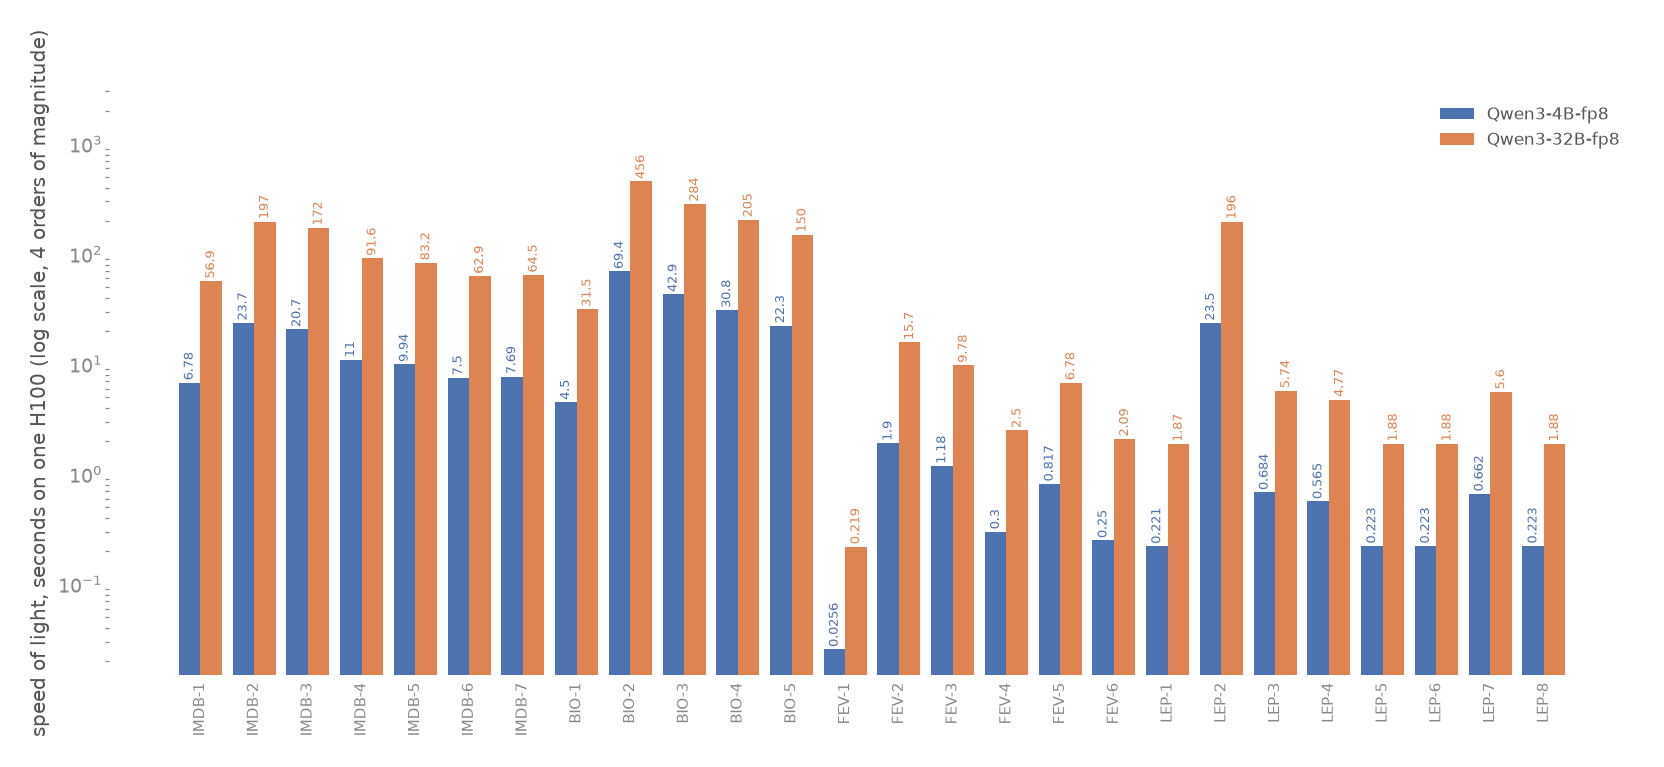
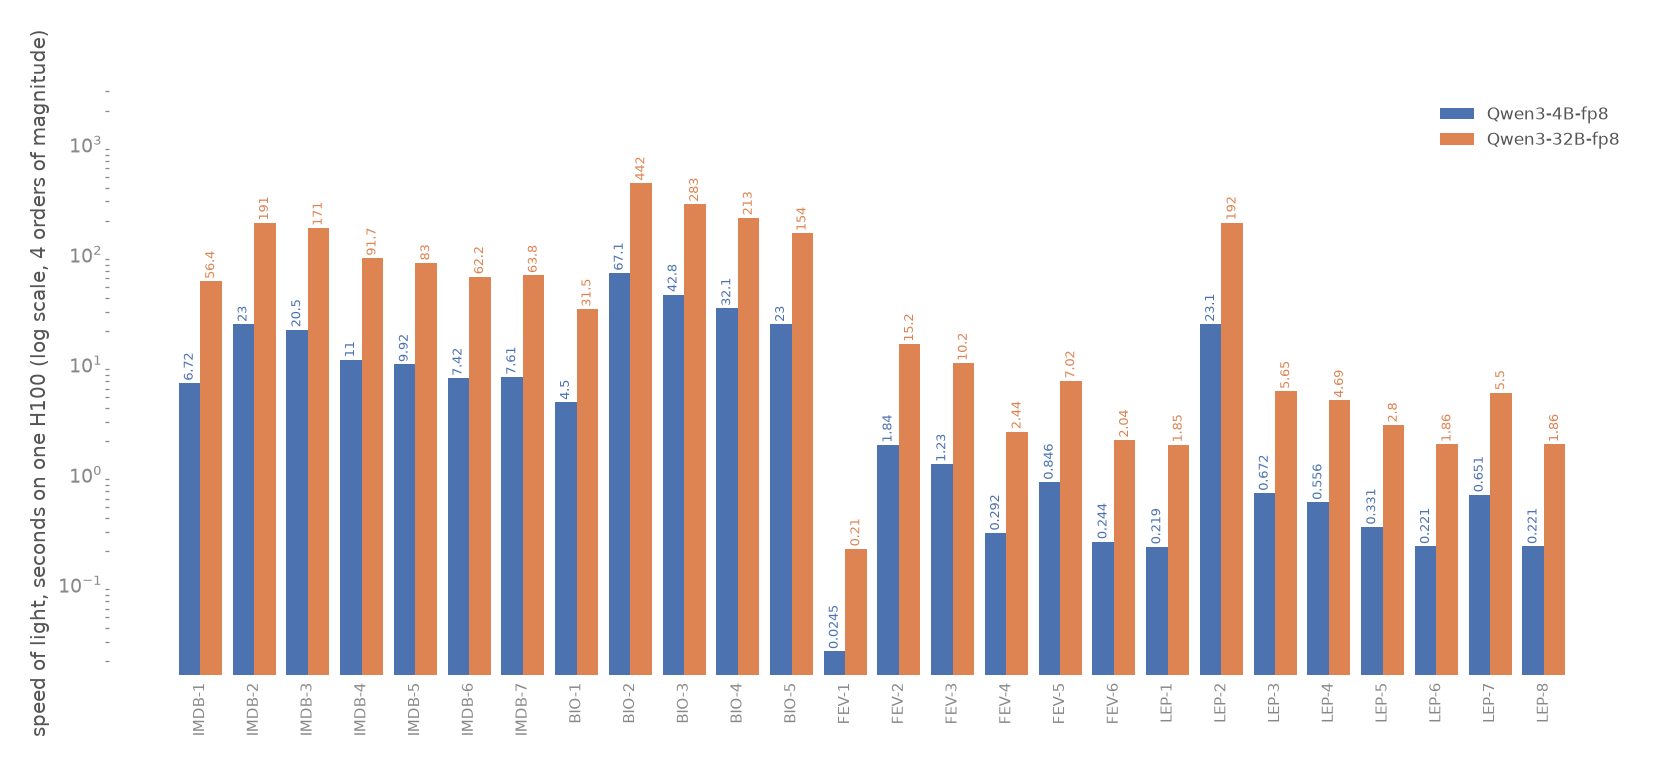
Recompute the QUAIL-B speed of light against the relabelled ground truth
The equations are unchanged. Two of their three measured inputs moved:
the templates lost a duplicated ANSWER= cue, so every filter question is
a few tokens shorter, and relabelling under the corrected templates
raised 14 of the 19 predicates' selectivities.

The label loader now reads the corpus's active_collection.json and takes
only the label sets that collection names. A predicate keeps one label
set per template it has been judged under and superseded ones stay on
the volume, so the old glob over every label set could have read either.

Net effect on the bound is small: 22 of 26 queries move by under 4%.
Shorter prompts cut tokens while higher selectivities send more
documents into later stages, and the two largely cancel. LEP-5 is the
exception at 1.5x, because its filter chain now leaves one document
standing where it left none, so its join costs something.

Results on the quail-results volume at /sol/sol_quailb_sf0.1.json.

diff --git a/reports/make_sol_quailb.py b/reports/make_sol_quailb.py
@@ -38,16 +38,22 @@ The corpora and the per-document ground-truth labels are raw data
 and live on the quail-results volume, so pull them first. The
 answers go back to the volume too:
 
-    W=<workdir>
+    W=<workdir>; C=c_df45ef585738f42e4a7a731306f1b9fc
+    G=/ground_truth/quailb/schema_v1
+    mkdir -p $W/data $W/allabels
     modal volume get quail-results /quailb_data/sf0.1 $W/data/
-    modal volume get quail-results \
-        /ground_truth/quailb/schema_v1/label_sets $W/allabels/
+    modal volume get quail-results $G/label_sets $W/allabels/
+    modal volume get quail-results $G/corpora/$C/active_collection.json \
+        $W/active_collection.json
+    GT=$(grep -o 'gt_[0-9a-f]*' $W/active_collection.json)
+    modal volume get quail-results $G/collections/$GT/manifest.json \
+        $W/collection_manifest.json
     uv run --with transformers --with pyarrow \
         python reports/make_sol_quailb.py $W
     modal volume put quail-results $W/sol_quailb_sf0.1.json \
         /sol/sol_quailb_sf0.1.json
 
-The report is reports/2026-08-25-sol-quailb.md.
+The report is reports/2026-08-26-sol-quailb.md.
 """
 import collections
 import glob
@@ -407,8 +413,17 @@ join_prompt = {c: {"question": length(render_join_question(t)),
                for c, t in JOIN_TEMPLATES.items()}
 
 # 3. labels -----------------------------------------------------------
+# A predicate keeps one label set per template it has been judged
+# under, so the volume holds several at once. The corpus's
+# active_collection.json names the current collection, and that
+# collection names one label set per predicate; anything else is a
+# superseded run and must not be read.
+ACTIVE = set(json.load(open(W / "collection_manifest.json"))
+             ["label_sets"].values())
 labels = {}
 for m in glob.glob(str(W / "allabels/label_sets/*/*/*/manifest.json")):
+    if Path(m).parent.name not in ACTIVE:
+        continue
     meta = json.load(open(m))["predicate"]
     if meta["kind"] != "filter":
         continue

diff --git a/reports/2026-08-26-sol-quailb.md b/reports/2026-08-26-sol-quailb.md
@@ -40,13 +40,20 @@ one pass, and writes both to `/sol/sol_quailb_sf0.1.json` on the
    the set its join runs against.
 
 2. **Prompt lengths.** The shared preamble is 2 tokens. Each
-   filter's question is 40 to 62 tokens. Each join carries a partner
+   filter's question is 41 to 62 tokens. Each join carries a partner
    block label, an anchor naming line, and a question.
 
 3. **Selectivities.** From the QUAIL-B ground truth labels - the 32B
    model's TRUE/FALSE per document - taken per stage and conditional
-   on the stages before it. F1 passes 0.7746 of IMDB's documents; F4 then
-   passes 0.2486 of what F1 left.
+   on the stages before it. F1 passes 0.8008 of IMDB's documents; F4 then
+   passes 0.2567 of what F1 left.
+
+   These come from collection `gt_80e7582534b349bc61c087595f2e0a51`,
+   the labels active for corpus `c_df45ef585738f42e4a7a731306f1b9fc`.
+   A predicate keeps one label set per template it has been judged
+   under, and superseded ones stay on the volume, so the script reads
+   the corpus's `active_collection.json` and takes only the label
+   sets that collection names.
 
 One thing is set rather than measured: the batch size the forward
 pass runs at, which decides how many times the weights are re-read.
@@ -87,9 +94,9 @@ new tokens attending over the resident prefix - never as a triangle
 over itself. Without reuse, stage `s > 1` would be another stage 1.
 
 Read straight off the table below: IMDB-1 is one filter over 5,000
-IMDB documents at 1,774,233 tokens. IMDB-6 adds a second filter and
-comes to 1,960,137. The difference is 185,904, which is exactly the
-3,873 surviving documents times F4's 48-token question. Nothing is
+IMDB documents at 1,759,233 tokens. IMDB-6 adds a second filter and
+comes to 1,939,413. The difference is 180,180, which is exactly the
+4,004 surviving documents times F4's 45-token question. Nothing is
 scanned again.
 
 A join is the same shape with a longer suffix. One side anchors -
@@ -108,35 +115,35 @@ Figure: plots/sol_quailb_per_query.png
 
 | query | shape | tokens | pairs | tuples | anchor | 4B SoL | 32B SoL | 32B/4B |
 |---|---|---|---|---|---|---|---|---|
-| IMDB-1 | 1F | 1,774,233 | 4.45e8 | - | - | 6.78 s | 56.90 s | 8.39 |
-| IMDB-2 | 1J | 6,124,233 | 1.96e9 | 60,000 | documents | 23.66 s | 197.31 s | 8.34 |
-| IMDB-3 | 1F+1J | 5,352,885 | 1.69e9 | 46,476 | documents | 20.66 s | 172.40 s | 8.34 |
-| IMDB-4 | 2F+1J | 2,849,949 | 8.14e8 | 11,556 | documents | 10.95 s | 91.61 s | 8.37 |
-| IMDB-5 | 3F+1J | 2,590,485 | 7.22e8 | 7,536 | documents | 9.94 s | 83.23 s | 8.37 |
-| IMDB-6 | 2F | 1,960,137 | 5.05e8 | - | - | 7.50 s | 62.89 s | 8.39 |
-| IMDB-7 | 3F | 2,010,213 | 5.21e8 | - | - | 7.69 s | 64.50 s | 8.39 |
-| BIO-1 | 1F | 839,599 | 2.38e9 | - | - | 4.50 s | 31.53 s | 7.00 |
-| BIO-2 | 1J | 11,347,799 | 4.65e10 | 122,800 | documents | 69.40 s | 456.48 s | 6.58 |
-| BIO-3 | 1F+1J | 7,097,928 | 2.83e10 | 73,066 | documents | 42.93 s | 283.82 s | 6.61 |
-| BIO-4 | 2F+1J | 5,157,297 | 1.99e10 | 50,348 | documents | 30.81 s | 204.84 s | 6.65 |
-| BIO-5 | 3F+1J | 3,794,195 | 1.41e10 | 34,384 | documents | 22.33 s | 149.50 s | 6.70 |
-| FEV-1 | 1F | 6,942 | 2.45e5 | - | - | 0.026 s | 0.22 s | 8.56 |
-| FEV-2 | 1J | 485,820 | 2.02e8 | 5,700 | partner | 1.90 s | 15.75 s | 8.27 |
-| FEV-3 | 1F+1J | 301,926 | 1.22e8 | 3,363 | partner | 1.18 s | 9.78 s | 8.28 |
-| FEV-4 | 2F+1J | 77,499 | 2.57e7 | 570 | partner | 0.30 s | 2.50 s | 8.33 |
-| FEV-5 | 2F+1J two-sided | 209,571 | 7.94e7 | 2,183 | partner | 0.82 s | 6.78 s | 8.30 |
-| FEV-6 | 3F+1J two-sided | 64,884 | 1.98e7 | 370 | partner | 0.25 s | 2.09 s | 8.35 |
-| LEP-1 | 1F | 58,419 | 1.16e7 | - | - | 0.22 s | 1.87 s | 8.43 |
-| LEP-2 | 1J | 6,086,619 | 1.97e9 | 40,000 | documents | 23.53 s | 196.13 s | 8.34 |
-| LEP-3 | 1F+1J | 179,211 | 4.29e7 | 800 | documents | 0.68 s | 5.74 s | 8.40 |
-| LEP-4 | 2F+1J | 149,213 | 2.85e7 | 600 | documents | 0.57 s | 4.77 s | 8.44 |
-| LEP-5 | 3F+1J | 58,769 | 1.17e7 | 0 | documents | 0.22 s | 1.88 s | 8.43 |
-| LEP-6 | 5F+1J | 58,769 | 1.17e7 | 0 | documents | 0.22 s | 1.88 s | 8.43 |
-| LEP-7 | 2F+1J two-sided | 175,402 | 3.04e7 | 600 | documents | 0.66 s | 5.60 s | 8.45 |
-| LEP-8 | 5F | 58,769 | 1.17e7 | - | - | 0.22 s | 1.88 s | 8.43 |
+| IMDB-1 | 1F | 1,759,233 | 4.39e8 | - | - | 6.72 s | 56.41 s | 8.39 |
+| IMDB-2 | 1J | 5,944,233 | 1.89e9 | 60,000 | documents | 22.96 s | 191.48 s | 8.34 |
+| IMDB-3 | 1F+1J | 5,314,785 | 1.67e9 | 48,048 | documents | 20.51 s | 171.16 s | 8.34 |
+| IMDB-4 | 2F+1J | 2,852,277 | 8.13e8 | 12,336 | documents | 10.96 s | 91.68 s | 8.37 |
+| IMDB-5 | 3F+1J | 2,583,857 | 7.19e8 | 8,028 | documents | 9.92 s | 83.01 s | 8.37 |
+| IMDB-6 | 2F | 1,939,413 | 4.98e8 | - | - | 7.42 s | 62.22 s | 8.39 |
+| IMDB-7 | 3F | 1,989,785 | 5.14e8 | - | - | 7.61 s | 63.84 s | 8.39 |
+| BIO-1 | 1F | 838,999 | 2.38e9 | - | - | 4.50 s | 31.50 s | 7.00 |
+| BIO-2 | 1J | 10,979,399 | 4.50e10 | 122,800 | documents | 67.12 s | 441.54 s | 6.58 |
+| BIO-3 | 1F+1J | 7,081,126 | 2.82e10 | 75,522 | documents | 42.81 s | 283.08 s | 6.61 |
+| BIO-4 | 2F+1J | 5,360,703 | 2.08e10 | 54,646 | documents | 32.07 s | 213.10 s | 6.64 |
+| BIO-5 | 3F+1J | 3,893,343 | 1.46e10 | 36,840 | documents | 22.97 s | 153.63 s | 6.69 |
+| FEV-1 | 1F | 6,642 | 2.25e5 | - | - | 0.025 s | 0.21 s | 8.56 |
+| FEV-2 | 1J | 468,720 | 1.94e8 | 5,700 | partner | 1.84 s | 15.19 s | 8.27 |
+| FEV-3 | 1F+1J | 313,995 | 1.26e8 | 3,648 | partner | 1.23 s | 10.17 s | 8.28 |
+| FEV-4 | 2F+1J | 75,594 | 2.49e7 | 570 | partner | 0.29 s | 2.44 s | 8.33 |
+| FEV-5 | 2F+1J two-sided | 217,129 | 8.23e7 | 2,368 | partner | 0.85 s | 7.02 s | 8.30 |
+| FEV-6 | 3F+1J two-sided | 63,388 | 1.92e7 | 370 | partner | 0.24 s | 2.04 s | 8.35 |
+| LEP-1 | 1F | 57,819 | 1.14e7 | - | - | 0.22 s | 1.85 s | 8.43 |
+| LEP-2 | 1J | 5,966,619 | 1.92e9 | 40,000 | documents | 23.06 s | 192.25 s | 8.34 |
+| LEP-3 | 1F+1J | 176,211 | 4.19e7 | 800 | documents | 0.67 s | 5.65 s | 8.40 |
+| LEP-4 | 2F+1J | 146,801 | 2.79e7 | 600 | documents | 0.56 s | 4.69 s | 8.44 |
+| LEP-5 | 3F+1J | 87,746 | 1.45e7 | 200 | documents | 0.33 s | 2.80 s | 8.46 |
+| LEP-6 | 5F+1J | 58,209 | 1.15e7 | 0 | documents | 0.22 s | 1.86 s | 8.43 |
+| LEP-7 | 3F+1J two-sided | 172,390 | 2.97e7 | 600 | documents | 0.65 s | 5.50 s | 8.45 |
+| LEP-8 | 5F | 58,209 | 1.15e7 | - | - | 0.22 s | 1.86 s | 8.43 |
 
 Every query on both models is compute bound. The largest
-`T_memory` in the suite is FEV-1's at 6.4% of its `T_compute`, and
+`T_memory` in the suite is FEV-1's at 6.7% of its `T_compute`, and
 FEV-1 is the smallest query here - 100 documents of 11 tokens.
 Everything else pushes enough tokens per pass that the weight reads
 amortize away.
@@ -150,17 +157,17 @@ cheaper, because that is what the engine does.
 
 | join | side held | side streamed | tokens as run | tokens the other way | cost of choosing wrong |
 |---|---|---|---|---|---|
-| IMDB-2 | documents, 299 tokens | partner, 2 | 6,124,233 | 22,370,955 | 3.7x |
-| BIO-2 | documents, 4,146 | partner, 5 | 11,347,799 | 519,084,588 | 45.7x |
-| FEV-2 | partner, 370 | documents, 11 | 485,820 | 2,511,142 | 5.2x |
-| FEV-5 | partner, 370 | documents, 11 | 177,711 | 922,878 | 5.2x |
-| LEP-2 | documents, 233 | partner, 83 | 6,086,619 | 12,062,589 | 2.0x |
+| IMDB-2 | documents, 299 tokens | partner, 2 | 5,944,233 | 22,190,955 | 3.7x |
+| BIO-2 | documents, 4,146 | partner, 5 | 10,979,399 | 518,716,188 | 47.2x |
+| FEV-2 | partner, 370 | documents, 11 | 468,720 | 2,494,042 | 5.3x |
+| FEV-5 | partner, 370 | documents, 11 | 185,740 | 993,984 | 5.4x |
+| LEP-2 | documents, 233 | partner, 83 | 5,966,619 | 11,942,589 | 2.0x |
 
 FEVER is the one that inverts. Its documents average 11 tokens and
 its partner set 370, so the join holds the partner and streams the
 documents past it - the opposite of how the query
 reads. BioDEX is the extreme, because a 4,146-token report copied
-into each of 122,800 tuples is 46 times the cost of holding 200 of
+into each of 122,800 tuples is 47 times the cost of holding 200 of
 them.
 
 ## Document length decides the mix, and the mix decides the model gap
@@ -190,7 +197,7 @@ bf16 peak.
 
 Put together: a query's cost multiplier from 4B to 32B lies between
 3.56 and 8.59, at whatever its mix is. The five BioDEX queries hold
-4,146-token documents and spend 32 to 40% of their compute on
+4,146-token documents and spend 31 to 40% of their compute on
 attention, so they multiply by 6.6 to 7.0. Every other query holds
 documents of 11 to 370 tokens, spends under 7% on attention, and
 multiplies by 8.3 to 8.6.
@@ -210,10 +217,11 @@ dearer.
 - **The KV read count is a minimum**, one read per anchor per stage.
   An anchor whose tuples straddle a chunk boundary is read twice.
   Nothing here is memory bound, so it changes no answer.
-- **LEP-5, LEP-6 and LEP-8 are the same number.** LEP1 leaves 4
-  documents of 200 and LEP3 leaves none, so their later stages and
-  their joins cost nothing. Those three queries carry no signal at
-  sf=0.1.
+- **LEP-6 and LEP-8 are the same number.** LEP1 leaves 4 documents
+  of 200, LEP2 leaves 3, LEP3 leaves 1, and LEP4 leaves none, so the
+  fourth and fifth stages of both queries and LEP-6's join cost
+  nothing. Those two carry no signal at sf=0.1. LEP-5 stops after
+  LEP3, so its one surviving document does reach the join.
 - **Nothing here is compared with a measured wall.** These are
   floors. What fraction of them the engine reaches is a separate
   question and a separate run.

diff --git a/plans/sol_model.md b/plans/sol_model.md
@@ -204,7 +204,7 @@ this is analysis, not a plan input.
 
 ## 7. Every QUAIL-B query
 
-`reports/2026-08-25-sol-quailb.md` applies all of this to the 26
+`reports/2026-08-26-sol-quailb.md` applies all of this to the 26
 queries at sf=0.1 on Qwen3-4B-fp8 and Qwen3-32B-fp8, from measured
 document lengths, measured prompt lengths, and ground-truth
 selectivities. `reports/make_sol_quailb.py` is the one script that
